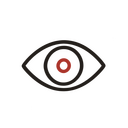
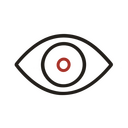
fix(mora): the owner's resized eye and desk; designer update note (#126)
め and つ come from the owner's resized masters (the rest of the set is
unchanged). docs/design/november/DESIGNER-UPDATE.md brings the canvas in
line with Mora v5, Write it again and the two-part word note.

Claude-Session: https://claude.ai/code/session_01FG4otwNLNNgvm2f5kTNcdq

Changed region(s): [[0.0938, 0.25, 0.9062, 0.75], [0.4375, 0.4375, 0.5625, 0.5938]]

diff --git a/sw.js b/sw.js
@@ -1,4 +1,4 @@
-const CACHE="jp-echo-v218";
+const CACHE="jp-echo-v219";
 const PREFS_CACHE="jp-echo-prefs",PREFS_KEY="./reminder",REMINDER_TAG="echo-due";
 const ASSETS=["./","./index.html","./404.html","./styles.css","./styles.css?v=170","./app.js","./components.js","./actions.js","./routes.js","./anki-export.js","./srs.js","./review-modes.js","./review-speech.js","./vendor/sql-wasm.wasm","./core.js","./japanese-readings.js","./readings.js","./catalogues.js","./references.js","./text-extraction.js","./epub-import.js","./mini-imports.js","./imports.js","./gist-backup.js","./diff.js","./reminders.js","./db.js","./api.js","./speech.js","./radio.js","./mora-pictures.js","./mora-drill.js","./anchors/a.png","./anchors-dark/a.png","./anchors/i.png","./anchors-dark/i.png","./anchors/u.png","./anchors-dark/u.png","./anchors/e.png","./anchors-dark/e.png","./anchors/o.png","./anchors-dark/o.png","./anchors/ka.png","./anchors-dark/ka.png","./anchors/ki.png","./anchors-dark/ki.png","./anchors/ku.png","./anchors-dark/ku.png","./anchors/ke.png","./anchors-dark/ke.png","./anchors/ko.png","./anchors-dark/ko.png","./anchors/sa.png","./anchors-dark/sa.png","./anchors/shi.png","./anchors-dark/shi.png","./anchors/su.png","./anchors-dark/su.png","./anchors/se.png","./anchors-dark/se.png","./anchors/so.png","./anchors-dark/so.png","./anchors/ta.png","./anchors-dark/ta.png","./anchors/chi.png","./anchors-dark/chi.png","./anchors/tsu.png","./anchors-dark/tsu.png","./anchors/te.png","./anchors-dark/te.png","./anchors/to.png","./anchors-dark/to.png","./anchors/na.png","./anchors-dark/na.png","./anchors/ni.png","./anchors-dark/ni.png","./anchors/nu.png","./anchors-dark/nu.png","./anchors/ne.png","./anchors-dark/ne.png","./anchors/no.png","./anchors-dark/no.png","./anchors/ha.png","./anchors-dark/ha.png","./anchors/hi.png","./anchors-dark/hi.png","./anchors/fu.png","./anchors-dark/fu.png","./anchors/he.png","./anchors-dark/he.png","./anchors/ho.png","./anchors-dark/ho.png","./anchors/ma.png","./anchors-dark/ma.png","./anchors/mi.png","./anchors-dark/mi.png","./anchors/mu.png","./anchors-dark/mu.png","./anchors/me.png","./anchors-dark/me.png","./anchors/mo.png","./anchors-dark/mo.png","./anchors/ya.png","./anchors-dark/ya.png","./anchors/yu.png","./anchors-dark/yu.png","./anchors/yo.png","./anchors-dark/yo.png","./anchors/ra.png","./anchors-dark/ra.png","./anchors/ri.png","./anchors-dark/ri.png","./anchors/ru.png","./anchors-dark/ru.png","./anchors/re.png","./anchors-dark/re.png","./anchors/ro.png","./anchors-dark/ro.png","./anchors/wa.png","./anchors-dark/wa.png","./anchors/wo.png","./anchors-dark/wo.png","./anchors/n.png","./anchors-dark/n.png","./anchors/kya.png","./anchors-dark/kya.png","./anchors/kyu.png","./anchors-dark/kyu.png","./anchors/kyo.png","./anchors-dark/kyo.png","./anchors/sha.png","./anchors-dark/sha.png","./anchors/shu.png","./anchors-dark/shu.png","./anchors/sho.png","./anchors-dark/sho.png","./anchors/cha.png","./anchors-dark/cha.png","./anchors/chu.png","./anchors-dark/chu.png","./anchors/cho.png","./anchors-dark/cho.png","./anchors/nyu.png","./anchors-dark/nyu.png","./anchors/hya.png","./anchors-dark/hya.png","./anchors/hyo.png","./anchors-dark/hyo.png","./anchors/ryu.png","./anchors-dark/ryu.png","./anchors/ryo.png","./anchors-dark/ryo.png","./repair.js","./kanji.js","./kanji-families.js","./decks/kanji-families-curriculum.json","./kanji-data.js","./kanji-readings.js","./grammar.js","./grammar-spans.js","./grammar-data.js","./lookup.js","./notes.js","./stories.js","./words.js","./japanese-words.js","./words-data.js","./i18n.js","./i18n/ja.js","./manifest.webmanifest","./icon.svg","./icon-192.png","./icon-512.png","./icon-maskable-512.png","./apple-touch-icon.png","./favicon.ico","./mask-icon.svg"];
 

diff --git a/docs/design/november/DESIGNER-UPDATE.md b/docs/design/november/DESIGNER-UPDATE.md
@@ -1,0 +1,55 @@
+# Echo — designer update after the close-out (7 Nov)
+
+Paste everything below the line into the designer AI.
+
+---
+
+The close-out you answered is built and merged (KakkoiDev/jp-echo #118–#122).
+Since then the owner decided the open items, and the app moved ahead of three
+boards. Please bring the canvas back in line, on the same canvas
+(https://claude.ai/artifact/GvfDGGMseigok2pDxrKCBZ). Same rules as before: the
+app's tokens and primitives win, no redesign, draw only what is listed here.
+
+## What changed in the app
+
+1. **Mora anchors are v5.** The owner took five AnchorAudit replacements:
+   よ 鎧 armour, れ レモン lemon, ち 地図 map, ん 判子 seal stamp, こ 駒 spinning top.
+   そ keeps ソファ (蕎麦 declined). Fused ょ sounds follow (みょ = 水＋鎧), and so
+   do voiced sounds (ご = 巨大な駒, ぢ = 巨大な地図).
+2. **The pictures are the owner's new 512px set**, shipped at 128px, with や, め
+   and つ redrawn (no frame; one plain desk; め and つ drawn larger). The dark set
+   is the same drawing with ink `#F2EEE3` and seal `#E0614B`.
+3. **Write it again** is a real action now. The owner chose: a fresh wording
+   **replaces** the sentence (only the new one is practised). It is a row in the
+   sentence's ⋯ menu, after Edit: 新 Write it again — "Echo says the same thing a
+   fresh way; it replaces this one". Edit, or correct with Echo now carries your
+   pencil.
+4. **Echo's note on a word shows two parts**, as WordNote drew: "Echo's note — how
+   to say it", then "Echo's note — the kanji". They are one note text split at the
+   labels Echo writes.
+5. **Echo's notes** can rewrite every note still written with a v4 anchor: a box
+   above the list, "N notes still use older anchors", with "Rewrite them with the
+   new anchors". Notes the learner wrote are never touched.
+
+## Boards to update (light, Dark, and 360 where they exist)
+
+| Board | Change |
+|---|---|
+| AnchorAudit | Mark よ れ ち ん こ as **Shipped (v5)** and そ as **Declined**. Mark や め つ as **Redrawn**. |
+| MoraCompact, DesktopMora, MoraVoiced, MoraCombined, MoraSpecials | Use the shipped pictures and anchors: 鎧, レモン, 地図, 判子, 駒. MoraCombined's fused cells read 水＋鎧 and so on. The count line reads "46 anchors · version 5". |
+| MoraSpecials | The ん row is 判子 はんこ, "a seal stamp", "ん closes a word the way a seal closes a page." Drop the "A replacement is with the owner" line. |
+| SentenceMenu | Add 新 Write it again under Edit, or correct with Echo, with the copy above. |
+| WordNote | Show a stamp (判子) for ん in the strip. "The kanji" part is drawn as built: a seal-deep overline, then the text. |
+| Notes | Add the outdated-notes box above the list, as built (a panel with hairline, a hint, an outline button, a status line). One state is enough. |
+| Drill, DrillAnswer, DrillMiss, DrillStart | Any card that shows a changed anchor uses the new picture. |
+
+## Not for this pass
+
+- No new screens beyond the boards above.
+- The Notes box's after-state ("Rewrote N with the new anchors") does not need its own board.
+
+## What to send back
+
+1. The list of boards you changed.
+2. Anything in the app that still disagrees with a board, in the same form as
+   last time (Board / Code, and why).
